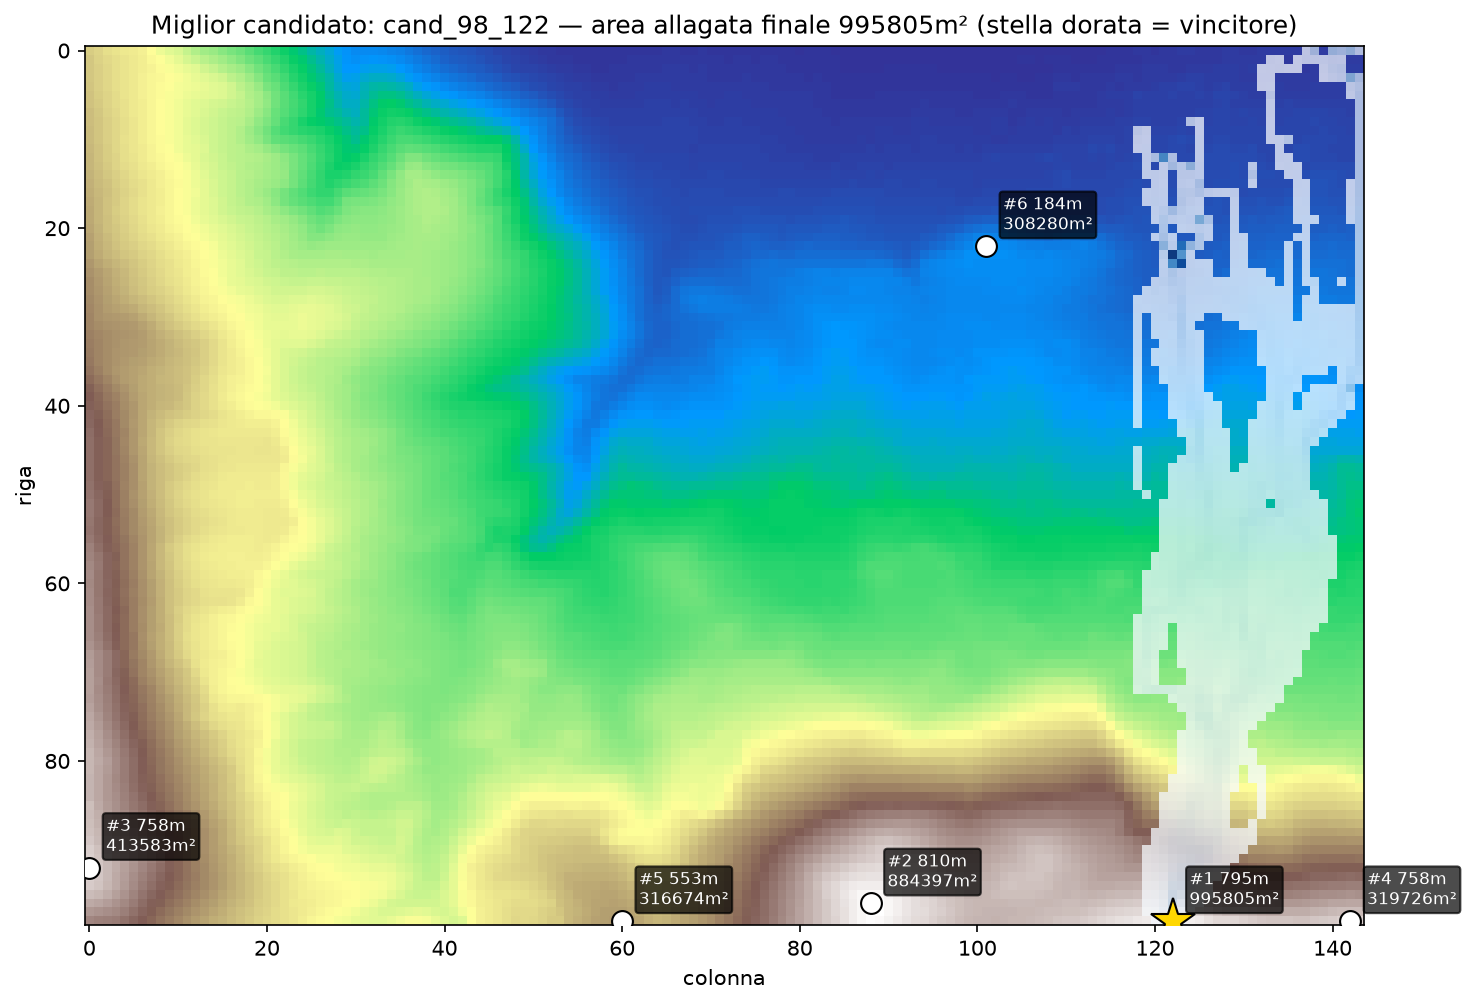
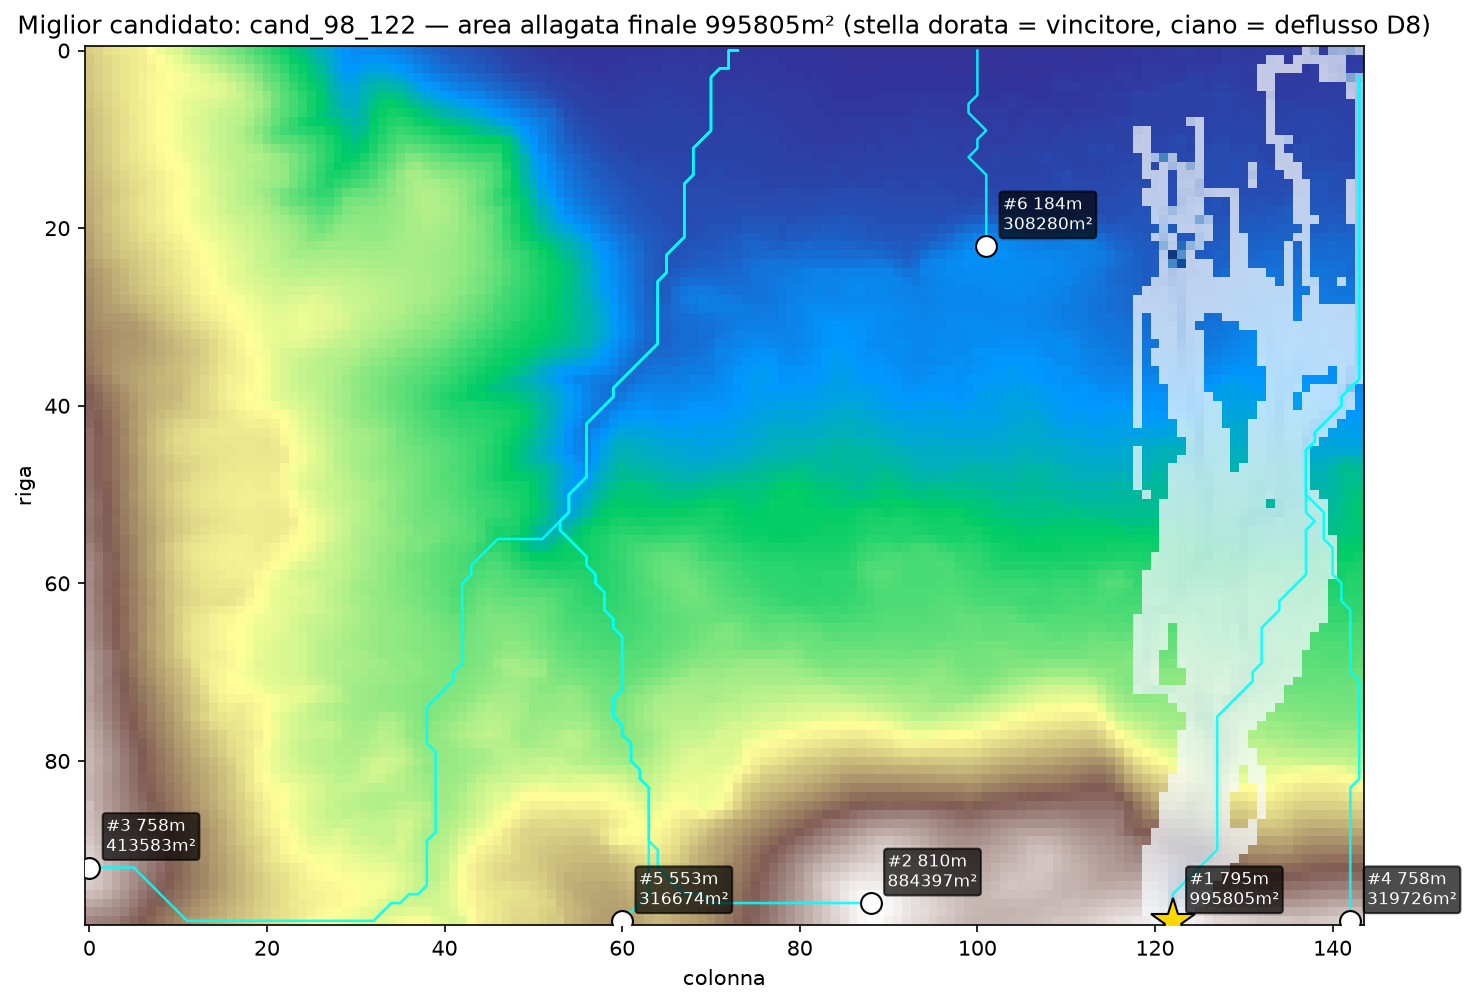
Add D8 figures to README and rotate 3D views by 180 degrees
- docs/assets: new 11_flow_accumulation.png and 12_flow_paths_3d.png,
  added to the results section of the three READMEs.
- 3D views with water rotated by -180 degrees so the low ground is in front:
  render_flow_paths_3d (azim=120), export_flood_animation_3d
  (CAMERA_START_DEGREES 230 -> 50), visualize_flood_3d (camera eye).
  Regenerated 05_flood_animation_3d.gif, 09_flood_3d.png, 12_flow_paths_3d.png.
- visualize_flood_3d: legend moved top-left, it overlapped the colorbars
  once the D8 paths trace was added.
- 03_mappa_finale_ranking.png regenerated with the D8 paths; caption updated.
- README: 06 is a top-down 2D animation over satellite imagery, not 3D.

diff --git a/scripts/export_flood_animation_3d.py b/scripts/export_flood_animation_3d.py
@@ -46,7 +46,7 @@ _TARGET_VISUAL_FRACTION = 0.12
 # mostrato automaticamente, senza dover indovinare l'angolo "giusto".
 ROTATE_DEGREES_TOTAL = 0      # 360 = giro completo; 0 = camera fissa (comportamento precedente)
 CAMERA_RADIUS = 1.4             # distanza della camera dal centro (più alto = più zoom out)
-CAMERA_START_DEGREES = 230      # angolo di partenza
+CAMERA_START_DEGREES = 50       # angolo di partenza (230 - 180: l'acqua non resta dietro la cresta)
 CAMERA_ELEVATION = 1.1          # quota della camera (più alto = vista più dall'alto)
 
 # --- Colori --------------------------------------------------------------

diff --git a/app/viz/raster_render.py b/app/viz/raster_render.py
@@ -147,6 +147,7 @@ def render_flow_paths_3d(dem: DEMGrid, output_path: str, start_spacing_cells: in
     ax.add_collection3d(Line3DCollection(segments, colors="blue", linewidths=1.2, alpha=0.8),
                         autolim=False)
     ax.invert_yaxis()  # riga 0 in fondo, come nelle mappe 2D (origin upper)
+    ax.view_init(elev=30, azim=120)  # default matplotlib -60° ruotato di -180°: l'acqua a valle resta in vista
     ax.set_title(f"Percorsi di deflusso D8 ({len(segments)} partenze)")
     ax.set_xlabel("colonna")
     ax.set_ylabel("riga")

diff --git a/scripts/visualize_flood_3d.py b/scripts/visualize_flood_3d.py
@@ -157,8 +157,11 @@ def main() -> None:
             yaxis_title="riga",
             zaxis_title="quota (m)",
             aspectratio=dict(x=1, y=n_rows / n_cols, z=0.5),
+            # camera di default Plotly (1.25, 1.25, 1.25) ruotata di -180°: l'acqua in primo piano
+            camera=dict(eye=dict(x=-1.25, y=-1.25, z=1.25)),
         ),
         margin=dict(t=60, b=10),
+        legend=dict(x=0.01, y=0.99),  # in alto a sinistra, lontano dalle colorbar a destra
     )
 
     div_id = "flood3dplot"

diff --git a/README.it.md b/README.it.md
@@ -36,7 +36,7 @@ Confronto dell'area allagata nel tempo tra i candidati:
 
 ![Grafico di confronto simulazioni](docs/assets/02_confronto_simulazioni.png)
 
-Mappa finale con i candidati valutati e il vincitore (stella dorata = maggiore area allagata):
+Mappa finale con i candidati valutati e il vincitore (stella dorata = maggiore area allagata, linee ciano = percorsi di deflusso D8 da ogni candidato):
 
 ![Mappa di ranking dei candidati](docs/assets/03_mappa_finale_ranking.png)
 
@@ -48,9 +48,9 @@ Stessa simulazione in vista 3D sul terreno:
 
 ![Animazione 3D dell'allagamento sul DEM](docs/assets/05_flood_animation_3d.gif)
 
-Stessa simulazione in vista 3D su immagine satellitare:
+Stessa simulazione in vista 2D dall'alto su immagine satellitare:
 
-![Animazione 3D su terreno satellitare](docs/assets/06_flood_animation_satellite.gif)
+![Animazione 2D su immagine satellitare](docs/assets/06_flood_animation_satellite.gif)
 
 Elevazione del DEM sovrapposta a immagine satellitare (HTML interattivo, cattura statica):
 
@@ -67,6 +67,14 @@ Vista 3D interattiva dell'allagamento per il candidato vincitore (HTML interatti
 Vista 3D interattiva del terreno satellitare (HTML interattivo, cattura statica):
 
 ![Vista 3D interattiva del terreno satellitare](docs/assets/10_terrain_satellite_3d.png)
+
+Accumulo di flusso D8 (celle che drenano in ogni cella, scala logaritmica):
+
+![Heatmap accumulo di flusso D8](docs/assets/11_flow_accumulation.png)
+
+Percorsi di deflusso D8 sul terreno 3D (figura matplotlib statica):
+
+![Percorsi di deflusso D8 sul terreno 3D](docs/assets/12_flow_paths_3d.png)
 
 ## Quickstart
 
@@ -117,7 +125,7 @@ Vivono tutti in `scripts/` e lavorano direttamente su `app/hydrology/` + `app/in
 | Verifica rapida: quali punti candidati sono stati trovati e perché | `python -m scripts.test_fase2` / `python -m scripts.diagnose_candidates` | solo console |
 | Animazione 2D condivisibile (vista dall'alto) | `python -m scripts.export_flood_animation` | GIF + MP4 |
 | Animazione 3D condivisibile sul DEM (lenta, ~2-3 min, via kaleido) | `python -m scripts.export_flood_animation_3d` | GIF + MP4 |
-| Animazione 3D condivisibile su immagine satellitare (richiede internet) | `python -m scripts.export_flood_animation_satellite` | GIF + MP4 |
+| Animazione 2D condivisibile (vista dall'alto) su immagine satellitare (richiede internet) | `python -m scripts.export_flood_animation_satellite` | GIF + MP4 |
 | Mappa statica DEM + punti candidati | `python -m scripts.visualize_dem` | PNG statico |
 | Overlay interattivo DEM/satellite, slider trasparenza (richiede internet) | `python -m scripts.visualize_dem_satellite` | HTML |
 | Vista 3D interattiva dell'allagamento per il candidato vincitore (con percorsi di deflusso D8), no satellite | `python -m scripts.visualize_flood_3d` | HTML |

diff --git a/README.md b/README.md
@@ -45,7 +45,7 @@ Comparison of flooded area over time across candidates:
 
 ![Simulation comparison chart](docs/assets/02_confronto_simulazioni.png)
 
-Final ranking map with all evaluated candidates and the winner (gold star = largest flooded area):
+Final ranking map with all evaluated candidates and the winner (gold star = largest flooded area, cyan lines = D8 flow paths from each candidate):
 
 ![Candidate ranking map](docs/assets/03_mappa_finale_ranking.png)
 
@@ -57,9 +57,9 @@ Same simulation, 3D terrain view:
 
 ![3D flood animation on the DEM](docs/assets/05_flood_animation_3d.gif)
 
-Same simulation, 3D terrain view over satellite imagery:
+Same simulation, top-down 2D view over satellite imagery:
 
-![3D flood animation on satellite terrain](docs/assets/06_flood_animation_satellite.gif)
+![2D flood animation over satellite imagery](docs/assets/06_flood_animation_satellite.gif)
 
 DEM elevation overlaid on satellite imagery (interactive HTML, static capture):
 
@@ -76,6 +76,14 @@ Interactive 3D flood view for the winning candidate (interactive HTML, static ca
 Interactive 3D satellite terrain view (interactive HTML, static capture):
 
 ![Interactive 3D satellite terrain](docs/assets/10_terrain_satellite_3d.png)
+
+D8 flow accumulation (cells draining into each cell, log scale):
+
+![D8 flow accumulation heatmap](docs/assets/11_flow_accumulation.png)
+
+D8 flow paths on the 3D terrain (static matplotlib figure):
+
+![D8 flow paths on 3D terrain](docs/assets/12_flow_paths_3d.png)
 
 ## Quickstart
 
@@ -126,7 +134,7 @@ All of these live in `scripts/` and run directly against `app/hydrology/` + `app
 | Quick check: which candidate points were found and why | `python -m scripts.test_fase2` / `python -m scripts.diagnose_candidates` | console only |
 | Shareable 2D flood animation (top-down) | `python -m scripts.export_flood_animation` | GIF + MP4 |
 | Shareable 3D flood animation on the DEM (slow, ~2-3 min, via kaleido) | `python -m scripts.export_flood_animation_3d` | GIF + MP4 |
-| Shareable 3D flood animation over satellite imagery (needs internet) | `python -m scripts.export_flood_animation_satellite` | GIF + MP4 |
+| Shareable 2D flood animation (top-down) over satellite imagery (needs internet) | `python -m scripts.export_flood_animation_satellite` | GIF + MP4 |
 | Static DEM + candidate-points map | `python -m scripts.visualize_dem` | static PNG |
 | Interactive DEM/satellite overlay, transparency slider (needs internet) | `python -m scripts.visualize_dem_satellite` | HTML |
 | Interactive 3D flood view for the winning candidate (with D8 flow paths), no satellite | `python -m scripts.visualize_flood_3d` | HTML |

diff --git a/watershed-AI_README.md b/watershed-AI_README.md
@@ -45,7 +45,7 @@ Comparison of flooded area over time across candidates:
 
 ![Simulation comparison chart](docs/assets/02_confronto_simulazioni.png)
 
-Final ranking map with all evaluated candidates and the winner (gold star = largest flooded area):
+Final ranking map with all evaluated candidates and the winner (gold star = largest flooded area, cyan lines = D8 flow paths from each candidate):
 
 ![Candidate ranking map](docs/assets/03_mappa_finale_ranking.png)
 
@@ -57,9 +57,9 @@ Same simulation, 3D terrain view:
 
 ![3D flood animation on the DEM](docs/assets/05_flood_animation_3d.gif)
 
-Same simulation, 3D terrain view over satellite imagery:
+Same simulation, top-down 2D view over satellite imagery:
 
-![3D flood animation on satellite terrain](docs/assets/06_flood_animation_satellite.gif)
+![2D flood animation over satellite imagery](docs/assets/06_flood_animation_satellite.gif)
 
 DEM elevation overlaid on satellite imagery (interactive HTML, static capture):
 
@@ -76,6 +76,14 @@ Interactive 3D flood view for the winning candidate (interactive HTML, static ca
 Interactive 3D satellite terrain view (interactive HTML, static capture):
 
 ![Interactive 3D satellite terrain](docs/assets/10_terrain_satellite_3d.png)
+
+D8 flow accumulation (cells draining into each cell, log scale):
+
+![D8 flow accumulation heatmap](docs/assets/11_flow_accumulation.png)
+
+D8 flow paths on the 3D terrain (static matplotlib figure):
+
+![D8 flow paths on 3D terrain](docs/assets/12_flow_paths_3d.png)
 
 ## Quickstart
 
@@ -126,7 +134,7 @@ All of these live in `scripts/` and run directly against `app/hydrology/` + `app
 | Quick check: which candidate points were found and why | `python -m scripts.test_fase2` / `python -m scripts.diagnose_candidates` | console only |
 | Shareable 2D flood animation (top-down) | `python -m scripts.export_flood_animation` | GIF + MP4 |
 | Shareable 3D flood animation on the DEM (slow, ~2-3 min, via kaleido) | `python -m scripts.export_flood_animation_3d` | GIF + MP4 |
-| Shareable 3D flood animation over satellite imagery (needs internet) | `python -m scripts.export_flood_animation_satellite` | GIF + MP4 |
+| Shareable 2D flood animation (top-down) over satellite imagery (needs internet) | `python -m scripts.export_flood_animation_satellite` | GIF + MP4 |
 | Static DEM + candidate-points map | `python -m scripts.visualize_dem` | static PNG |
 | Interactive DEM/satellite overlay, transparency slider (needs internet) | `python -m scripts.visualize_dem_satellite` | HTML |
 | Interactive 3D flood view for the winning candidate (with D8 flow paths), no satellite | `python -m scripts.visualize_flood_3d` | HTML |
